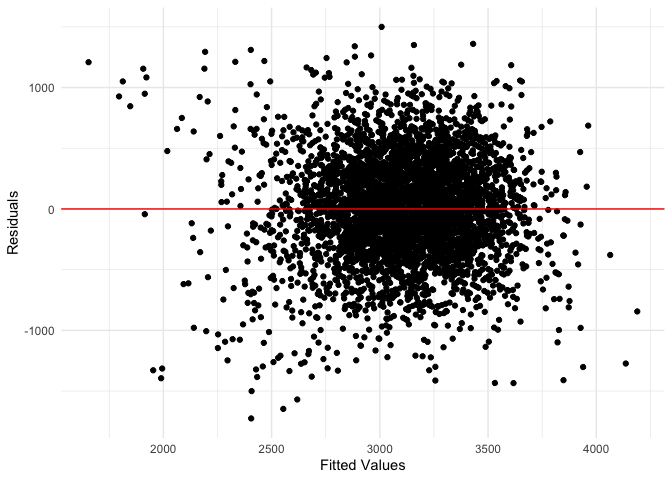
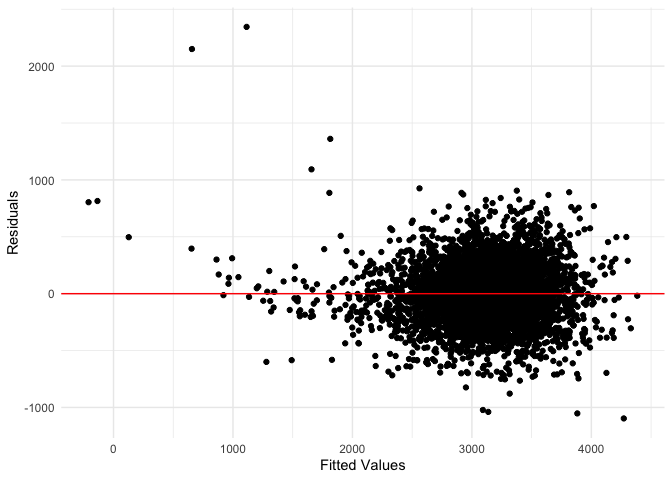
rmse cv

diff --git a/p8105_hw6_zj2379.md b/p8105_hw6_zj2379.md
@@ -229,49 +229,53 @@ against fitted values – use add_predictions and add_residuals in making
 this plot.
 
 ``` r
-reg_1=lm(bwt ~  delwt + fincome + frace + mheight + momage + mrace + parity + pnumlbw + pnumsga + ppwt +  menarche + gaweeks + smoken, data = birthweight)
+reg_1=lm(bwt ~ blength + bhead + smoken + wtgain + babysex + delwt + fincome + frace + mheight + momage + mrace + parity + pnumlbw + pnumsga + ppwt +  menarche + gaweeks + smoken, data = birthweight)
 summary(reg_1)
 ```
 
     ## 
     ## Call:
-    ## lm(formula = bwt ~ delwt + fincome + frace + mheight + momage + 
-    ##     mrace + parity + pnumlbw + pnumsga + ppwt + menarche + gaweeks + 
-    ##     smoken, data = birthweight)
+    ## lm(formula = bwt ~ blength + bhead + smoken + wtgain + babysex + 
+    ##     delwt + fincome + frace + mheight + momage + mrace + parity + 
+    ##     pnumlbw + pnumsga + ppwt + menarche + gaweeks + smoken, data = birthweight)
     ## 
     ## Residuals:
     ##      Min       1Q   Median       3Q      Max 
-    ## -1725.63  -256.90     8.82   275.38  1499.66 
+    ## -1096.58  -185.09    -3.14   173.09  2344.94 
     ## 
-    ## Coefficients: (2 not defined because of singularities)
-    ##              Estimate Std. Error t value Pr(>|t|)    
-    ## (Intercept) -504.7981   184.6379  -2.734  0.00628 ** 
-    ## delwt          9.7546     0.6004  16.247  < 2e-16 ***
-    ## fincome        0.2619     0.2777   0.943  0.34564    
-    ## frace2      -114.7095    71.3998  -1.607  0.10822    
-    ## frace3       -44.4254   107.2739  -0.414  0.67880    
-    ## frace4       -83.0952    69.1600  -1.201  0.22963    
-    ## frace8        -6.7418   114.6616  -0.059  0.95312    
-    ## mheight       16.5813     2.7768   5.971 2.54e-09 ***
-    ## momage         0.7659     1.8916   0.405  0.68557    
-    ## mrace2      -168.4377    71.2868  -2.363  0.01818 *  
-    ## mrace3       -24.3293   111.2891  -0.219  0.82696    
-    ## mrace4       -26.0302    69.8310  -0.373  0.70935    
-    ## parity1      151.3915   422.3038   0.358  0.71999    
-    ## parity3      147.2098   423.0734   0.348  0.72789    
-    ## parity6      673.5766   424.4818   1.587  0.11263    
-    ## pnumlbw            NA         NA      NA       NA    
-    ## pnumsga            NA         NA      NA       NA    
-    ## ppwt          -5.8647     0.6671  -8.792  < 2e-16 ***
-    ## menarche      -4.0908     4.4805  -0.913  0.36128    
-    ## gaweeks       52.6273     2.1091  24.952  < 2e-16 ***
-    ## smoken       -11.7964     0.8973 -13.147  < 2e-16 ***
+    ## Coefficients: (3 not defined because of singularities)
+    ##               Estimate Std. Error t value Pr(>|t|)    
+    ## (Intercept) -6074.8681   140.3894 -43.272  < 2e-16 ***
+    ## blength        74.9897     2.0218  37.091  < 2e-16 ***
+    ## bhead         130.7598     3.4511  37.889  < 2e-16 ***
+    ## smoken         -4.8586     0.5869  -8.279  < 2e-16 ***
+    ## wtgain          2.7212     0.4328   6.287 3.55e-10 ***
+    ## babysex2       28.6081     8.4641   3.380 0.000731 ***
+    ## delwt           1.3825     0.2364   5.849 5.30e-09 ***
+    ## fincome         0.2921     0.1795   1.627 0.103777    
+    ## frace2         14.3898    46.1440   0.312 0.755173    
+    ## frace3         21.0638    69.2902   0.304 0.761147    
+    ## frace4        -47.1383    44.6739  -1.055 0.291409    
+    ## frace8          4.6110    74.0591   0.062 0.950358    
+    ## mheight         6.8040     1.8007   3.779 0.000160 ***
+    ## momage          0.7772     1.2224   0.636 0.524919    
+    ## mrace2       -151.6211    46.0408  -3.293 0.000999 ***
+    ## mrace3        -91.9801    71.8852  -1.280 0.200775    
+    ## mrace4        -56.6219    45.1314  -1.255 0.209692    
+    ## parity1       303.0357   272.8464   1.111 0.266783    
+    ## parity3       201.6382   273.2837   0.738 0.460655    
+    ## parity6       579.6660   274.2527   2.114 0.034605 *  
+    ## pnumlbw             NA         NA      NA       NA    
+    ## pnumsga             NA         NA      NA       NA    
+    ## ppwt                NA         NA      NA       NA    
+    ## menarche       -3.6279     2.8943  -1.253 0.210100    
+    ## gaweeks        11.5289     1.4666   7.861 4.77e-15 ***
     ## ---
     ## Signif. codes:  0 '***' 0.001 '**' 0.01 '*' 0.05 '.' 0.1 ' ' 1
     ## 
-    ## Residual standard error: 421.9 on 4323 degrees of freedom
-    ## Multiple R-squared:  0.3243, Adjusted R-squared:  0.3215 
-    ## F-statistic: 115.3 on 18 and 4323 DF,  p-value: < 2.2e-16
+    ## Residual standard error: 272.5 on 4320 degrees of freedom
+    ## Multiple R-squared:  0.7184, Adjusted R-squared:  0.717 
+    ## F-statistic: 524.7 on 21 and 4320 DF,  p-value: < 2.2e-16
 
 ``` r
 birthweight <- birthweight |>
@@ -294,3 +298,133 @@ ggplot(birthweight, aes(x = fitted_values, y = residuals)) +
 ```
 
 ![](p8105_hw6_zj2379_files/figure-gfm/unnamed-chunk-9-1.png)<!-- -->
+From the plot, the residuals scatter around 0.
+
+``` r
+reg_2=lm(bwt ~ blength+ gaweeks, data = birthweight)
+summary(reg_2)
+```
+
+    ## 
+    ## Call:
+    ## lm(formula = bwt ~ blength + gaweeks, data = birthweight)
+    ## 
+    ## Residuals:
+    ##     Min      1Q  Median      3Q     Max 
+    ## -1709.6  -215.4   -11.4   208.2  4188.8 
+    ## 
+    ## Coefficients:
+    ##              Estimate Std. Error t value Pr(>|t|)    
+    ## (Intercept) -4347.667     97.958  -44.38   <2e-16 ***
+    ## blength       128.556      1.990   64.60   <2e-16 ***
+    ## gaweeks        27.047      1.718   15.74   <2e-16 ***
+    ## ---
+    ## Signif. codes:  0 '***' 0.001 '**' 0.01 '*' 0.05 '.' 0.1 ' ' 1
+    ## 
+    ## Residual standard error: 333.2 on 4339 degrees of freedom
+    ## Multiple R-squared:  0.5769, Adjusted R-squared:  0.5767 
+    ## F-statistic:  2958 on 2 and 4339 DF,  p-value: < 2.2e-16
+
+``` r
+reg_3=lm(bwt ~ bhead+ blength+ babysex+ bhead * blength + bhead * babysex + blength * babysex, data = birthweight)
+summary(reg_3)
+```
+
+    ## 
+    ## Call:
+    ## lm(formula = bwt ~ bhead + blength + babysex + bhead * blength + 
+    ##     bhead * babysex + blength * babysex, data = birthweight)
+    ## 
+    ## Residuals:
+    ##     Min      1Q  Median      3Q     Max 
+    ## -1133.8  -189.7    -7.2   178.8  2721.8 
+    ## 
+    ## Coefficients:
+    ##                    Estimate Std. Error t value Pr(>|t|)    
+    ## (Intercept)      -3768.3047   859.9205  -4.382  1.2e-05 ***
+    ## bhead               79.5055    25.9480   3.064  0.00220 ** 
+    ## blength             31.5110    17.8264   1.768  0.07719 .  
+    ## babysex2           259.9785   197.9105   1.314  0.18904    
+    ## bhead:blength        1.5608     0.5269   2.962  0.00307 ** 
+    ## bhead:babysex2     -12.6620     7.0450  -1.797  0.07236 .  
+    ## blength:babysex2     4.2107     4.1691   1.010  0.31257    
+    ## ---
+    ## Signif. codes:  0 '***' 0.001 '**' 0.01 '*' 0.05 '.' 0.1 ' ' 1
+    ## 
+    ## Residual standard error: 288.1 on 4335 degrees of freedom
+    ## Multiple R-squared:  0.6839, Adjusted R-squared:  0.6835 
+    ## F-statistic:  1563 on 6 and 4335 DF,  p-value: < 2.2e-16
+
+``` r
+cv_df = 
+  crossv_mc(birthweight, 100) 
+
+cv_df |> pull(train) |> nth(1) |> as_tibble()
+```
+
+    ## # A tibble: 3,473 × 22
+    ##    babysex bhead blength   bwt delwt fincome frace gaweeks malform menarche
+    ##    <fct>   <dbl>   <dbl> <dbl> <dbl>   <dbl> <fct>   <dbl> <fct>      <dbl>
+    ##  1 2          34      51  3629   177      35 1        39.9 0             13
+    ##  2 1          34      48  3062   156      65 2        25.9 0             14
+    ##  3 2          36      50  3345   148      85 1        39.9 0             12
+    ##  4 2          34      52  3374   156       5 1        41.6 0             13
+    ##  5 1          33      52  3374   129      55 1        40.7 0             12
+    ##  6 2          33      46  2523   126      96 2        40.3 0             14
+    ##  7 1          36      52  3515   146      85 1        40.3 0             11
+    ##  8 2          35      51  3317   130      55 1        43.4 0             13
+    ##  9 2          35      48  3175   158      75 1        39.7 0             13
+    ## 10 1          36      53  3629   147      75 1        41.3 0             11
+    ## # ℹ 3,463 more rows
+    ## # ℹ 12 more variables: mheight <dbl>, momage <dbl>, mrace <fct>, parity <fct>,
+    ## #   pnumlbw <dbl>, pnumsga <dbl>, ppbmi <dbl>, ppwt <dbl>, smoken <dbl>,
+    ## #   wtgain <dbl>, fitted_values <dbl>, residuals <dbl>
+
+``` r
+cv_df |> pull(test) |> nth(1) |> as_tibble()
+```
+
+    ## # A tibble: 869 × 22
+    ##    babysex bhead blength   bwt delwt fincome frace gaweeks malform menarche
+    ##    <fct>   <dbl>   <dbl> <dbl> <dbl>   <dbl> <fct>   <dbl> <fct>      <dbl>
+    ##  1 1          34      52  3062   157      55 1        40   0             14
+    ##  2 2          33      49  2778   140       5 1        37.4 0             12
+    ##  3 1          33      50  3459   169      75 2        40.7 0             12
+    ##  4 1          35      51  3459   146      55 1        39.4 0             12
+    ##  5 2          36      52  3629   154      65 1        40.3 0             11
+    ##  6 1          34      63  3175   143      25 1        41.9 0             13
+    ##  7 2          35      51  3827   130      45 1        41.3 0             12
+    ##  8 2          34      49  3317   142      35 1        40.4 0             12
+    ##  9 1          33      50  3175   168      25 1        40   0             13
+    ## 10 2          35      52  3487   121      45 1        39.9 0             11
+    ## # ℹ 859 more rows
+    ## # ℹ 12 more variables: mheight <dbl>, momage <dbl>, mrace <fct>, parity <fct>,
+    ## #   pnumlbw <dbl>, pnumsga <dbl>, ppbmi <dbl>, ppwt <dbl>, smoken <dbl>,
+    ## #   wtgain <dbl>, fitted_values <dbl>, residuals <dbl>
+
+``` r
+cv_df =
+  cv_df |> 
+  mutate(
+    train = map(train, as_tibble),
+    test = map(test, as_tibble))
+
+cv_df = 
+  cv_df |> 
+  mutate(
+    reg_1  = map(train, \(df) lm(bwt ~ blength + bhead + smoken + wtgain + babysex + delwt + fincome + frace + mheight + momage + mrace + parity + pnumlbw + pnumsga + ppwt +  menarche + gaweeks + smoken, data = birthweight)),
+    reg_2  = map(train, \(df) lm(bwt ~ blength+ gaweeks, data = birthweight)),
+    reg_3  = map(train, \(df)lm(bwt ~ bhead+ blength+ babysex+ bhead * blength + bhead * babysex + blength * babysex, data = birthweight))) |> 
+  mutate(
+    reg_1 = map2_dbl(reg_1, test, \(mod, df) rmse(model = mod, data = df)),
+    reg_2 = map2_dbl(reg_2, test, \(mod, df) rmse(model = mod, data = df)),
+    reg_3 = map2_dbl(reg_3, test, \(mod, df) rmse(model = mod, data = df)))
+```
+
+    ## Warning: There were 100 warnings in `mutate()`.
+    ## The first warning was:
+    ## ℹ In argument: `reg_1 = map2_dbl(reg_1, test, function(mod, df) rmse(model =
+    ##   mod, data = df))`.
+    ## Caused by warning in `predict.lm()`:
+    ## ! prediction from rank-deficient fit; attr(*, "non-estim") has doubtful cases
+    ## ℹ Run `dplyr::last_dplyr_warnings()` to see the 99 remaining warnings.
